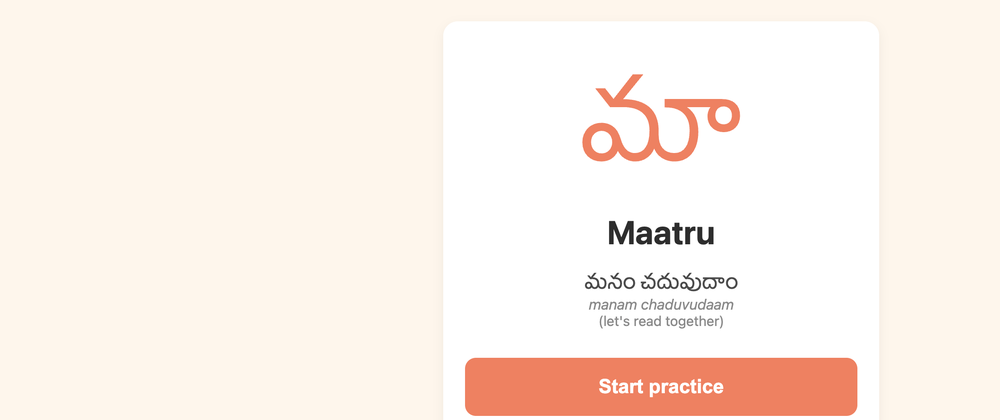
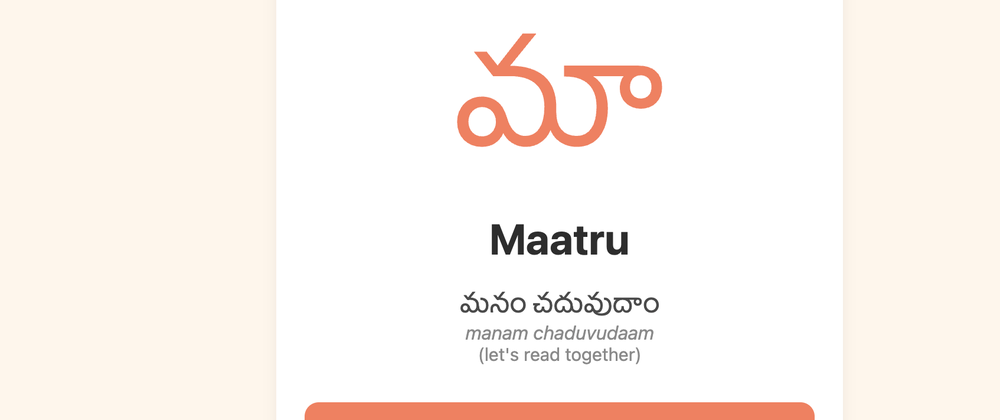
Phase 7: cover image horizontal recentering on welcome card

diff --git a/writeup/assets/make_cover.py b/writeup/assets/make_cover.py
@@ -26,6 +26,15 @@ TARGET_RATIO = TARGET_WIDTH / TARGET_HEIGHT  # 2.380...
 # Welcome card sits slightly above geometric center because of bottom peach
 # padding. 0.45 puts the crop center 5% above geometric center.
 VERTICAL_CENTER_BIAS = 0.45
+# Welcome card sits right of geometric center on the desktop layout (the
+# container max-width:480px + auto margin places it ~65% across a wide
+# viewport screenshot). 0.65 anchors the horizontal crop on the card.
+HORIZONTAL_CENTER_BIAS = 0.65
+# Zoom: how much of the source's width to keep before upsampling to TARGET_WIDTH.
+# ZOOM=1.0 keeps full width (no horizontal crop). ZOOM=1.3 keeps ~77% of the
+# width, centered per HORIZONTAL_CENTER_BIAS, making the card fill more of the
+# final cover. Vertical crop scales together so the 2.4:1 aspect is preserved.
+ZOOM = 1.3
 
 
 def main() -> int:
@@ -36,21 +45,34 @@ def main() -> int:
         src_w, src_h = src.size
         print(f"input:  {SOURCE.name}  {src_w}x{src_h}")
 
-        crop_h = round(src_w / TARGET_RATIO)
+        # Compute crop window. ZOOM controls how much of the source to keep
+        # before upsampling to (TARGET_WIDTH, TARGET_HEIGHT). The crop window
+        # always carries the target 2.4:1 ratio so the resize is a uniform scale.
+        if ZOOM < 1.0:
+            raise ValueError(f"ZOOM must be >= 1.0; got {ZOOM}")
+        crop_w = round(src_w / ZOOM)
+        crop_h = round(crop_w / TARGET_RATIO)
         if crop_h > src_h:
-            raise ValueError(
-                f"computed crop_h={crop_h} exceeds source height {src_h}; "
-                f"source is too tall-thin for a {TARGET_RATIO:.3f}:1 full-width crop"
-            )
+            # Source is too short for this ZOOM at the target ratio — fall back
+            # to height-bound: derive crop_w from src_h instead.
+            crop_h = src_h
+            crop_w = round(crop_h * TARGET_RATIO)
+            crop_w = min(crop_w, src_w)
+
+        crop_center_x = round(HORIZONTAL_CENTER_BIAS * src_w)
         crop_center_y = round(VERTICAL_CENTER_BIAS * src_h)
+        left = crop_center_x - crop_w // 2
         top = crop_center_y - crop_h // 2
-        # Clamp so the crop box stays inside the image even if the bias pushes
-        # the center near an edge.
+        # Clamp so the crop box stays inside the image.
+        left = max(0, min(left, src_w - crop_w))
         top = max(0, min(top, src_h - crop_h))
+        right = left + crop_w
         bottom = top + crop_h
-        crop_box = (0, top, src_w, bottom)
-        print(f"crop:   left=0 top={top} right={src_w} bottom={bottom}")
-        print(f"        size {src_w}x{crop_h}, ratio {src_w / crop_h:.3f}:1, bias {VERTICAL_CENTER_BIAS}")
+
+        crop_box = (left, top, right, bottom)
+        print(f"crop:   left={left} top={top} right={right} bottom={bottom}")
+        print(f"        size {crop_w}x{crop_h}, ratio {crop_w / crop_h:.3f}:1")
+        print(f"        zoom={ZOOM}, h_bias={HORIZONTAL_CENTER_BIAS}, v_bias={VERTICAL_CENTER_BIAS}")
 
         cropped = src.crop(crop_box).convert("RGB")
         resized = cropped.resize((TARGET_WIDTH, TARGET_HEIGHT), Image.LANCZOS)
